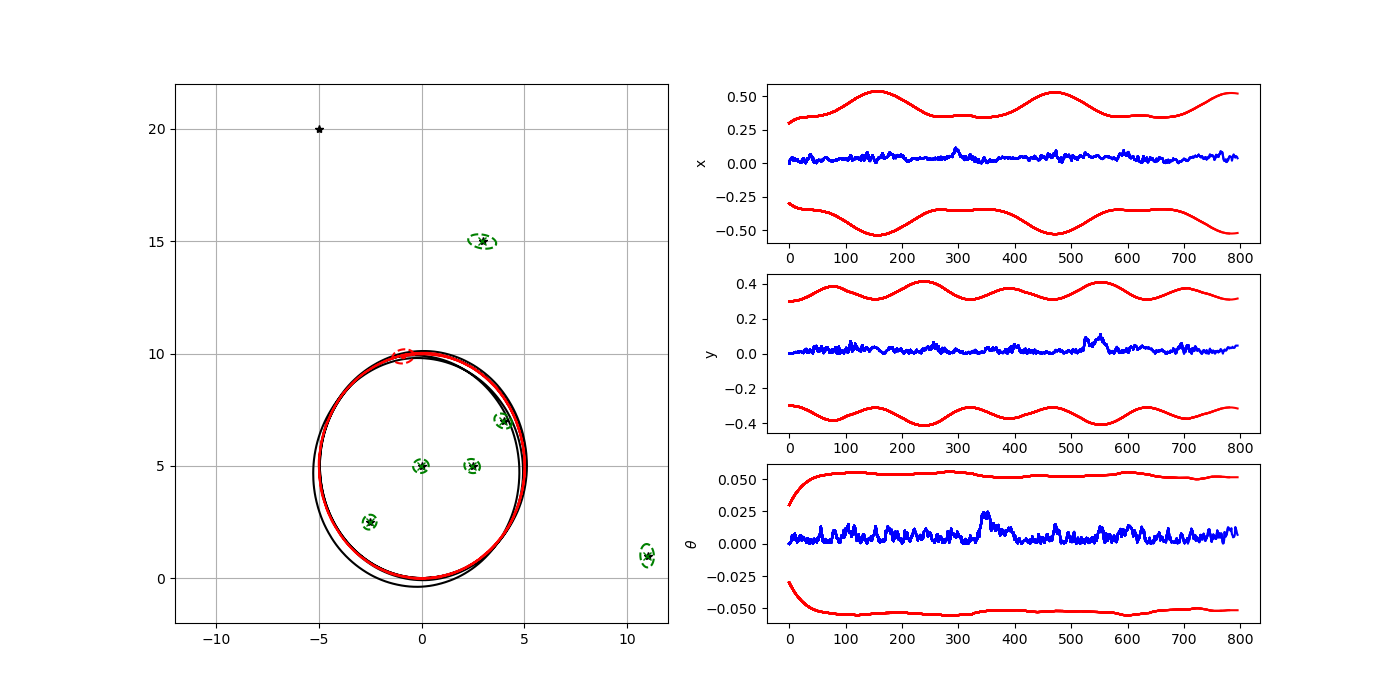
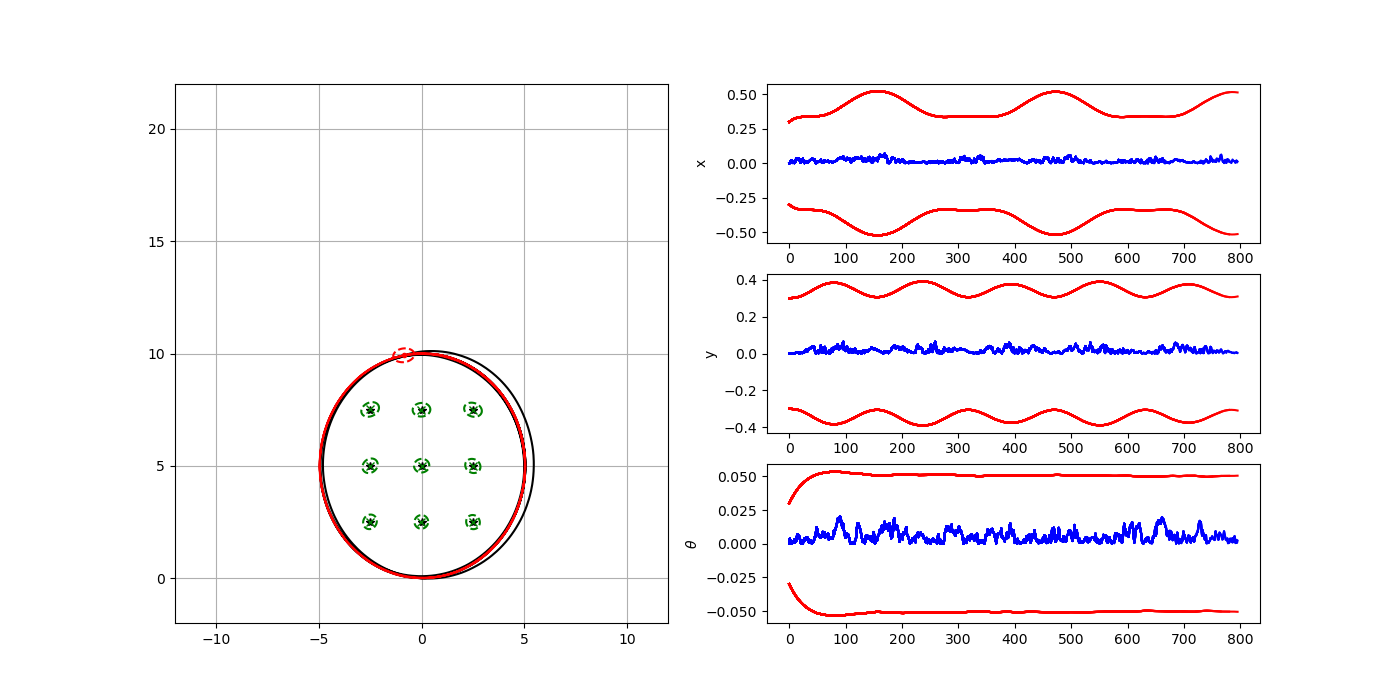
Doing ex1

diff --git a/TP4/ekf_slam_complete.py b/TP4/ekf_slam_complete.py
@@ -363,20 +363,22 @@ def main():
     #                       [3.0, 15.0],
     #                       [-5.0, 20.0]])
     
-    # Spare map with few landmarks
-    Landmarks = np.array([[2.5, 0.0],
-                          [2.5, 2.5],
-                          [-2.5, 2.5],
-                          [-2.5, 0.0]])
+    # Dense map with many landmarks inside the robot perception radius
+    # Landmarks = np.array([[0.0, 10.0],
+    #                       [-5.0, 15.0],
+    #                       [-5.0, 10.0],
+    #                       [-5.0, 5.0],
+    #                       [0.0, 15.0],
+    #                       [0.0, 5.0],
+    #                       [5.0, 15.0],
+    #                       [5.0, 10.0],
+    #                       [5.0, 5.0]])
     
-    # Dense map with many landmarks
-    # Landmarks = np.array([[0.0, 5.0],
-    #                       [11.0, 1.0],
-    #                       [3.0, 15.0],
-    #                       [-5.0, 20.0],
-    #                       [-2.5, 2.5],
-    #                       [2.5, 5],
-    #                       [4, 7]])
+    # Spare map with few landmarks
+    Landmarks = np.array([[-2.5, 0.0],
+                          [2.5, 0.0],
+                          [0.0, 2.5]])
+    
 
     # Init state vector [x y yaw]' and covariance for Kalman
     xEst = np.zeros((STATE_SIZE, 1))
